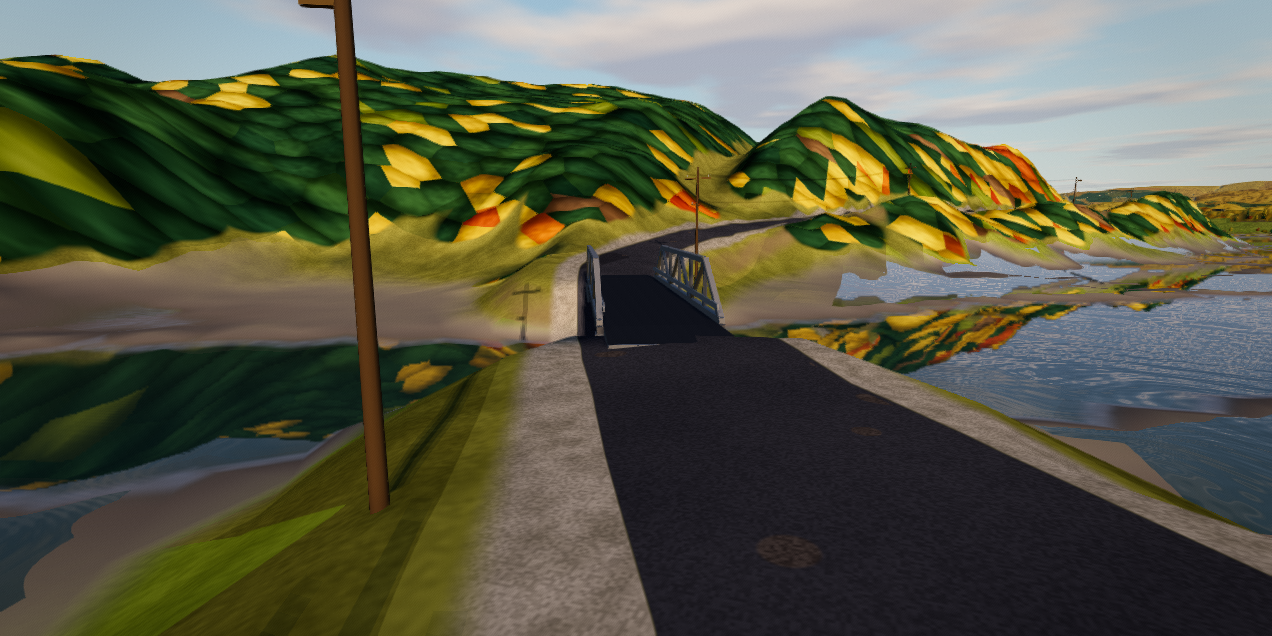
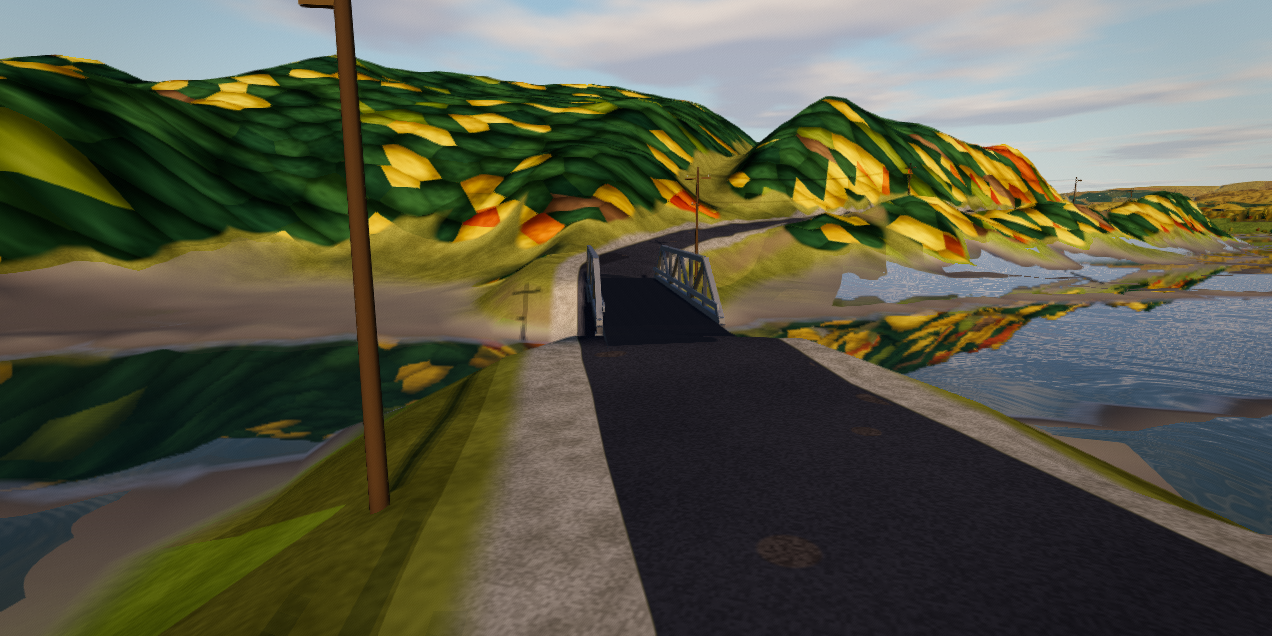
Blend bridge approach aprons into bank width, trim steel fascia, and strengthen towing tests

diff --git a/web/src/november-bridges.ts b/web/src/november-bridges.ts
@@ -20,10 +20,8 @@ export const PONY_TRUSS = {
   half: 2.2,
   /** Clear asphalt half-width between bottom chords (exact lateral deckHeight limit). */
   clearHalf: 2.08,
-  /** Paved approach apron past each end of the steel span, meeting the 3 m bank sample used by Roads.deck(). */
+  /** Paved approach apron past each end of the steel span, blended smoothly into the bank across the full width. */
   approach: 3.0,
-  /** Deck lift above the 3 m bank sample (matches Roads.deck() y0 = s0.ground + 0.05). */
-  approachDrop: 0.05,
   /** Inner collision face of the steel inner guard rail along each truss side. */
   railInner: 2.005,
   /** Outer face of the bottom chord and deck fascia. */
@@ -47,6 +45,16 @@ const ABUTMENT: RGB = [0.28, 0.27, 0.24];
 const DECK_ASPHALT: RGB = [0.085, 0.082, 0.078];
 
 const MATCH_TOLERANCE = 5;
+const APRON_ALONG_STEPS = 4;
+const APRON_ACROSS_STEPS = 4;
+
+/** Smoothly blend the 3 m approach apron from the bridge deck edge into the local bank height across the lane width. */
+function apronSurfaceY(endY: number, distPastEnd: number, land: number | null): number {
+  const u = Math.max(0, Math.min(1, 1 - distPastEnd / PONY_TRUSS.approach));
+  const blend = u * u * (3 - 2 * u);
+  if (land === null) return endY;
+  return Math.max(land, land + (endY - land) * blend);
+}
 
 /** Tag the two Little Mabou Road pony-truss bridges in raw EPSG:2961 road data without editing the input. */
 export function littleMabouPonyTruss(road: Road): Road {
@@ -61,9 +69,16 @@ export function littleMabouPonyTruss(road: Road): Road {
 
 /**
  * Exact wheel support on a pony-truss bridge and its 3 m approach aprons.
- * Uses the same straight span, square apron ends and clear asphalt width as buildPonyTrussBridge().
+ * Uses the same straight span, clear asphalt width and smoothstep bank blend as buildPonyTrussBridge().
  */
-export function ponyTrussDeckHeight(road: Road, y0: number, y1: number, x: number, z: number): number | null {
+export function ponyTrussDeckHeight(
+  road: Road,
+  y0: number,
+  y1: number,
+  x: number,
+  z: number,
+  heightAt: (x: number, z: number) => number | null,
+): number | null {
   const a = road.pts[0], b = road.pts[road.pts.length - 1];
   const dx = b[0] - a[0], dz = b[1] - a[1], len2 = dx * dx + dz * dz;
   if (!len2) return null;
@@ -73,8 +88,8 @@ export function ponyTrussDeckHeight(road: Road, y0: number, y1: number, x: numbe
   if (along < -ap || along > span + ap) return null;
   const across = (-(x - a[0]) * dz + (z - a[1]) * dx) / span;
   if (Math.abs(across) > PONY_TRUSS.clearHalf) return null;
-  if (along < 0) return y0 - PONY_TRUSS.approachDrop * (-along / ap);
-  if (along > span) return y1 - PONY_TRUSS.approachDrop * ((along - span) / ap);
+  if (along < 0) return apronSurfaceY(y0, -along, heightAt(x, z));
+  if (along > span) return apronSurfaceY(y1, along - span, heightAt(x, z));
   return y0 + (y1 - y0) * (along / span);
 }
 
@@ -129,9 +144,15 @@ export function registerRailContacts(
 
 /**
  * Build one merged vertex-coloured geometry for a narrow one-lane grey steel pony-truss bridge and its 3 m approach aprons.
- * Deck and apron surfaces stay on the exact piecewise-linear plane used by ponyTrussDeckHeight().
+ * Deck and apron surfaces stay on the exact piecewise surface used by ponyTrussDeckHeight().
  */
-export function buildPonyTrussBridge(pts: readonly [number, number][], y0: number, y1: number, len: number): THREE.BufferGeometry {
+export function buildPonyTrussBridge(
+  pts: readonly [number, number][],
+  y0: number,
+  y1: number,
+  len: number,
+  heightAt: (x: number, z: number) => number | null,
+): THREE.BufferGeometry {
   const m = new Mesher();
   const a = pts[0], b = pts[pts.length - 1];
   const dx = b[0] - a[0], dz = b[1] - a[1];
@@ -159,6 +180,9 @@ export function buildPonyTrussBridge(pts: readonly [number, number][], y0: numbe
   const deckThick = PONY_TRUSS.deckThickness;
   const fasciaTop = -0.025;
   const fasciaBottom = fasciaTop - deckThick;
+  const sinSlope = Math.abs(Math.sin(slope));
+  // Trim tilted steel fascia inside [0, span] so no lower corner overhangs the span endpoints.
+  const fasciaLen = deckLen - (deckThick + 0.05) * sinSlope * 2 - 0.01;
   m.at(mx, deckMidY, mz, yaw, 0, slope);
   // Top driving surface at exact local y = 0 (matches ponyTrussDeckHeight on [0, span]).
   m.quad([
@@ -168,36 +192,55 @@ export function buildPonyTrussBridge(pts: readonly [number, number][], y0: numbe
     [-deckLen / 2, 0, -clearHalf],
   ], DECK_ASPHALT);
   // Deck slab sides and underside (steel deck fascia under the trusses, 2.5 cm below asphalt to avoid z-fighting).
-  m.box(0, fasciaTop - deckThick / 2, 0, deckLen, deckThick, half * 2 + chord, STEEL_DARK, false);
+  m.box(0, fasciaTop - deckThick / 2, 0, fasciaLen, deckThick, half * 2 + chord, STEEL_DARK, false);
 
-  // Paved 3 m approach aprons sloping gently to meet the 3 m bank samples (eliminating LiDAR bank dips at bridge ends).
-  const ap = PONY_TRUSS.approach, drop = PONY_TRUSS.approachDrop, apLen = Math.hypot(ap, drop), apAng = Math.atan2(drop, ap);
+  // Paved 3 m approach aprons whose far edges match the bank height across the full lane width.
+  const ap = PONY_TRUSS.approach;
+  m.at(0, 0, 0);
+  const sampleApron = (s: number, across: number, endY: number, distPast: number): [number, number, number] => {
+    const wx = a[0] + ux * s - uz * across, wz = a[1] + uz * s + ux * across;
+    return [wx, apronSurfaceY(endY, distPast, heightAt(wx, wz)), wz];
+  };
   for (const end of [-1, 1] as const) {
-    const sx = end < 0 ? a[0] - ux * (ap / 2) : b[0] + ux * (ap / 2);
-    const sz = end < 0 ? a[1] - uz * (ap / 2) : b[1] + uz * (ap / 2);
-    const sy = (end < 0 ? y0 : y1) - drop / 2;
-    const roll = end < 0 ? apAng : -apAng;
-    m.at(sx, sy, sz, yaw, 0, roll);
-    m.quad([
-      [-apLen / 2, 0, clearHalf],
-      [apLen / 2, 0, clearHalf],
-      [apLen / 2, 0, -clearHalf],
-      [-apLen / 2, 0, -clearHalf],
-    ], DECK_ASPHALT);
-    // Approach embankment side skirts reach down into the creek bank with 2.5 cm clearance below the asphalt top.
-    m.box(0, -0.75 - 0.025, 0, apLen, 1.5, clearHalf * 2 - 0.02, ABUTMENT, true);
+    const endY = end < 0 ? y0 : y1;
+    const grid: [number, number, number][][] = [];
+    for (let i = 0; i <= APRON_ALONG_STEPS; i++) {
+      const t = i / APRON_ALONG_STEPS;
+      const s = end < 0 ? -ap * (1 - t) : span + ap * t;
+      const distPast = end < 0 ? -s : s - span;
+      const row: [number, number, number][] = [];
+      for (let j = 0; j <= APRON_ACROSS_STEPS; j++) {
+        const across = -clearHalf + (2 * clearHalf * j) / APRON_ACROSS_STEPS;
+        row.push(sampleApron(s, across, endY, distPast));
+      }
+      grid.push(row);
+    }
+    for (let i = 0; i < APRON_ALONG_STEPS; i++) {
+      for (let j = 0; j < APRON_ACROSS_STEPS; j++) {
+        // Counter-clockwise from above (+Y normal).
+        m.quad([grid[i][j + 1], grid[i + 1][j + 1], grid[i + 1][j], grid[i][j]], DECK_ASPHALT);
+      }
+      // Side skirts drop cleanly down into the bank beneath the outer apron edges.
+      for (const side of [0, APRON_ACROSS_STEPS]) {
+        const p0 = grid[i][side], p1 = grid[i + 1][side];
+        const b0 = [p0[0], p0[1] - 1.5, p0[2]], b1 = [p1[0], p1[1] - 1.5, p1[2]];
+        if (side === APRON_ACROSS_STEPS) m.quad([b0, b1, p1, p0], ABUTMENT);
+        else m.quad([b1, b0, p0, p1], ABUTMENT);
+      }
+    }
   }
 
-  // Transverse floor beams beneath the fascia at every panel point (tilted with the slope and inset so no faces overlap).
+  // Transverse floor beams beneath the fascia at every panel point (tilted with the slope and inset inside [0, span]).
   const beamW = half * 2 + chord;
+  const beamEndInset = 0.12 + (0.28 + Math.abs(fasciaBottom)) * sinSlope;
   for (let i = 0; i <= panels; i++) {
-    const s = i === 0 ? 0.10 : i === panels ? span - 0.10 : i * panel;
+    const s = i === 0 ? beamEndInset : i === panels ? span - beamEndInset : i * panel;
     const bx = a[0] + ux * s, bz = a[1] + uz * s, by = deckY(s);
     m.at(bx, by, bz, yaw, 0, slope);
     m.box(0, fasciaBottom - 0.145, 0, 0.20, 0.28, beamW - 0.04, STEEL_DARK, false);
   }
   const abutmentDrop = 0.01 + 0.34 * Math.abs(dy / span);
-  for (const s of [0.32, span - 0.32]) {
+  for (const s of [0.34, span - 0.34]) {
     const ax = a[0] + ux * s, az = a[1] + uz * s, ay = deckY(s);
     m.at(ax, ay, az, yaw);
     m.box(0, fasciaBottom - abutmentDrop - 0.58, 0, 0.64, 1.16, beamW + 0.08, ABUTMENT, true);
@@ -206,7 +249,7 @@ export function buildPonyTrussBridge(pts: readonly [number, number][], y0: numbe
   // Two grey steel pony-truss sides: bottom chord, top chord, inclined end posts, Warren diagonals, vertical posts, inner guard rail.
   const topSpan = span - 2 * panel;
   const topLen = Math.hypot(topSpan, dy * (topSpan / span)) + chord * 0.7;
-  const sideLen = deckLen - chord * Math.abs(Math.sin(slope)) - 0.004;
+  const sideLen = deckLen - chord * sinSlope - 0.004;
   for (const side of [-1, 1]) {
     const zOff = side * half;
     const nx = -uz * zOff, nz = ux * zOff;

diff --git a/web/src/roads.ts b/web/src/roads.ts
@@ -57,6 +57,8 @@ export class Roads {
   private updateRevision=-1;private updateX=Infinity;private updateZ=Infinity;
   private periodMat: THREE.MeshLambertMaterial | null = null;
 
+  private readonly readTerrainHeight = (x: number, z: number) => this.terrain.heightAt(x, z);
+
   private eraBridgeHit:RoadHit|null=null;private bridgeQuery=0;
 
   constructor(data: { roads: Road[] },
@@ -185,7 +187,7 @@ export class Roads {
     if (!this.terrain.cartRoads && !hit.road.ponyTruss && hit.dist > hit.road.halfWidth + 1.2) return null;
     const deck = this.deck(hit.road);
     if (!deck) return null;
-    if (!this.terrain.cartRoads && hit.road.ponyTruss) return ponyTrussDeckHeight(hit.road, deck.y0, deck.y1, x, z);
+    if (!this.terrain.cartRoads && hit.road.ponyTruss) return ponyTrussDeckHeight(hit.road, deck.y0, deck.y1, x, z, this.readTerrainHeight);
     const [ax, az] = hit.road.pts[hit.seg], [bx, bz] = hit.road.pts[hit.seg + 1];
     const s = deck.cum[hit.seg] + (this.terrain.cartRoads?deck.cum[hit.seg+1]-deck.cum[hit.seg]:Math.hypot(bx - ax, bz - az)) * hit.t;
     const plane=this.terrain.cartRoads?deck.y0+(deck.y1-deck.y0)*s/deck.len:deck.y0 + (deck.y1 - deck.y0) * (s / deck.len);
@@ -244,7 +246,7 @@ export class Roads {
     const len = cum[n - 1] || 1, y0 = s0.ground + 0.05, y1 = s1.ground + 0.05;
     let mesh: THREE.Mesh;
     if (road.ponyTruss) {
-      const geo = buildPonyTrussBridge(p, y0, y1, len);
+      const geo = buildPonyTrussBridge(p, y0, y1, len, this.readTerrainHeight);
       this.periodMat ??= new THREE.MeshLambertMaterial({ vertexColors: true, side: THREE.DoubleSide });
       mesh = new THREE.Mesh(geo, this.periodMat);
       mesh.name = 'pony-truss-' + road.id;
